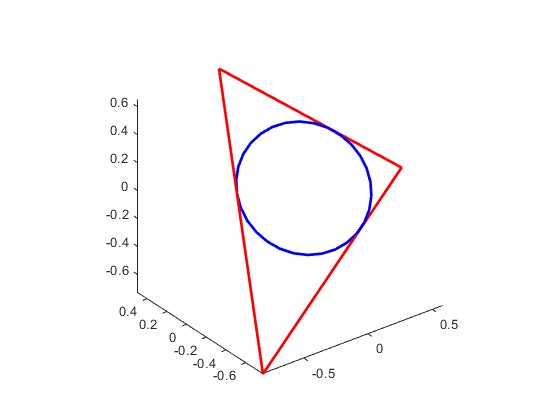
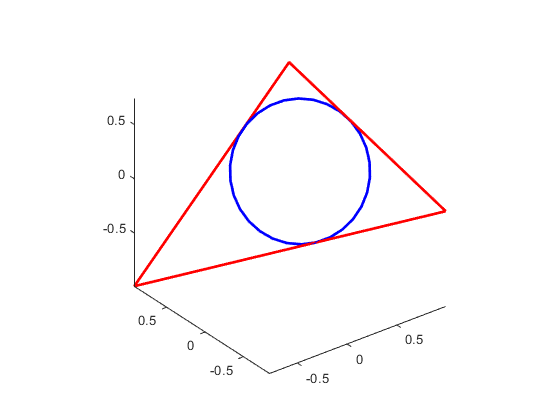
2D cases now included in 3D generic cases

diff --git a/html/doc.html b/html/doc.html
@@ -6,7 +6,7 @@
    <!--
 This HTML was auto-generated from MATLAB code.
 To make changes, update the MATLAB code and republish this document.
-      --><title>triangle_incircle</title><meta name="generator" content="MATLAB 9.7"><link rel="schema.DC" href="http://purl.org/dc/elements/1.1/"><meta name="DC.date" content="2022-10-30"><meta name="DC.source" content="doc.m"><style type="text/css">
+      --><title>triangle_incircle</title><meta name="generator" content="MATLAB 9.7"><link rel="schema.DC" href="http://purl.org/dc/elements/1.1/"><meta name="DC.date" content="2023-08-11"><meta name="DC.source" content="doc.m"><style type="text/css">
 html,body,div,span,applet,object,iframe,h1,h2,h3,h4,h5,h6,p,blockquote,pre,a,abbr,acronym,address,big,cite,code,del,dfn,em,font,img,ins,kbd,q,s,samp,small,strike,strong,sub,sup,tt,var,b,u,i,center,dl,dt,dd,ol,ul,li,fieldset,form,label,legend,table,caption,tbody,tfoot,thead,tr,th,td{margin:0;padding:0;border:0;outline:0;font-size:100%;vertical-align:baseline;background:transparent}body{line-height:1}ol,ul{list-style:none}blockquote,q{quotes:none}blockquote:before,blockquote:after,q:before,q:after{content:'';content:none}:focus{outine:0}ins{text-decoration:none}del{text-decoration:line-through}table{border-collapse:collapse;border-spacing:0}
 
 html { min-height:100%; margin-bottom:1px; }
@@ -66,7 +66,7 @@ table td { padding:7px 5px; text-align:left; vertical-align:top; border:1px soli
 
 
 
-  </style></head><body><div class="content"><h1>triangle_incircle</h1><!--introduction--><p>Function to compute and display the incircle of a triangle.</p><p>Author &amp; support : nicolas.douillet (at) free.fr, 2022.</p><!--/introduction--><h2>Contents</h2><div><ul><li><a href="#1">Syntax</a></li><li><a href="#2">Description</a></li><li><a href="#3">See also</a></li><li><a href="#4">Input arguments</a></li><li><a href="#5">Output arguments</a></li><li><a href="#6">Example #1</a></li><li><a href="#7">Example #2</a></li></ul></div><h2 id="1">Syntax</h2><p>triangle_incircle(A, B, C);</p><p>triangle_incircle(A, B, C, nb_samples);</p><p>triangle_incircle(A, B, C, nb_samples, option_display);</p><p>[R, I, r] = triangle_incircle(A, B, C, nb_samples, option_display);</p><h2 id="2">Description</h2><p>triangle_incircle(A, B, C) computes and displays the incircle of ABC triangle.</p><p>triangle_incircle(A, B, C, nb_samples) uses nb_samples to draw the circle.</p><p>triangle_incircle(A, B, C, nb_samples, option_display) displays the circle when option_display is set either to logical true or real numeric 1, and doesn't when it is set to logical false or real numeric 0.</p><p>[R, I, r] = triangle_incircle(A, B, C, nb_samples, option_display) stores the results in [R, I, r] vector.</p><h2 id="3">See also</h2><p>| <a href="https://fr.mathworks.com/matlabcentral/fileexchange/119788-triangle-circumcircle">triangle circumcircle</a> |   <a href="https://fr.mathworks.com/matlabcentral/fileexchange/65574-tetrahedron-circumscribed-sphere?s_tid=prof_contriblnk">tetrahedron circumsphere</a> |</p><h2 id="4">Input arguments</h2><pre>      [Ax]
+  </style></head><body><div class="content"><h1>triangle_incircle</h1><!--introduction--><p>Function to compute and display the incircle of a triangle.</p><p>Author &amp; support : nicolas.douillet (at) free.fr, 2022-2023.</p><!--/introduction--><h2>Contents</h2><div><ul><li><a href="#1">Syntax</a></li><li><a href="#2">Description</a></li><li><a href="#3">See also</a></li><li><a href="#4">Input arguments</a></li><li><a href="#5">Output arguments</a></li><li><a href="#6">Example #1</a></li></ul></div><h2 id="1">Syntax</h2><p>triangle_incircle(A, B, C);</p><p>triangle_incircle(A, B, C, nb_samples);</p><p>triangle_incircle(A, B, C, nb_samples, option_display);</p><p>[R, I, r] = triangle_incircle(A, B, C, nb_samples, option_display);</p><h2 id="2">Description</h2><p>triangle_incircle(A, B, C) computes and displays the incircle of ABC triangle.</p><p>triangle_incircle(A, B, C, nb_samples) uses nb_samples to draw the circle.</p><p>triangle_incircle(A, B, C, nb_samples, option_display) displays the circle when option_display is set either to logical true or real numeric 1, and doesn't when it is set to logical false or real numeric 0.</p><p>[R, I, r] = triangle_incircle(A, B, C, nb_samples, option_display) stores the results in [R, I, r] vector.</p><h2 id="3">See also</h2><p>| <a href="https://fr.mathworks.com/matlabcentral/fileexchange/119788-triangle-circumcircle">triangle circumcircle</a> |   <a href="https://fr.mathworks.com/help/matlab/ref/triangulation.incenter.html">incenter</a> |   <a href="https://fr.mathworks.com/matlabcentral/fileexchange/65574-tetrahedron-circumscribed-sphere?s_tid=prof_contriblnk">tetrahedron circumsphere</a> |</p><h2 id="4">Input arguments</h2><pre>      [Ax]
 - A = [Ay] : real column vector double. 2 &lt;= numel(A) &lt;= 3. One of the three ABC vertices.
       [Az]</pre><pre>      [Bx]
 - B = [By] real column vector double. 2 &lt;= numel(A) &lt;= 3. One of the three ABC vertices.
@@ -82,17 +82,13 @@ C = 2*(rand(3,1)-0.5);
 nb_samples = 30;
 option_display = true;
 triangle_incircle(A,B,C,nb_samples,option_display);
-</pre><img vspace="5" hspace="5" src="doc_01.png" alt=""> <h2 id="7">Example #2</h2><p>From a triangle of the 2D space</p><pre class="codeinput">A = 2*(rand(2,1)-0.5);
-B = 2*(rand(2,1)-0.5);
-C = 2*(rand(2,1)-0.5);
-[R,I,r] = triangle_incircle(A,B,C);
-</pre><img vspace="5" hspace="5" src="doc_02.png" alt=""> <p class="footer"><br><a href="https://www.mathworks.com/products/matlab/">Published with MATLAB&reg; R2019b</a><br></p></div><!--
+</pre><img vspace="5" hspace="5" src="doc_01.png" alt=""> <p class="footer"><br><a href="https://www.mathworks.com/products/matlab/">Published with MATLAB&reg; R2019b</a><br></p></div><!--
 ##### SOURCE BEGIN #####
 %% triangle_incircle
 %
 % Function to compute and display the incircle of a triangle.
 %
-% Author & support : nicolas.douillet (at) free.fr, 2022.
+% Author & support : nicolas.douillet (at) free.fr, 2022-2023.
 %
 %
 %% Syntax
@@ -125,6 +121,7 @@ C = 2*(rand(2,1)-0.5);
 %% See also
 %
 % | <https://fr.mathworks.com/matlabcentral/fileexchange/119788-triangle-circumcircle triangle circumcircle> |
+%   <https://fr.mathworks.com/help/matlab/ref/triangulation.incenter.html incenter> |
 %   <https://fr.mathworks.com/matlabcentral/fileexchange/65574-tetrahedron-circumscribed-sphere?s_tid=prof_contriblnk tetrahedron circumsphere> |
 %
 %
@@ -169,12 +166,5 @@ C = 2*(rand(3,1)-0.5);
 nb_samples = 30;
 option_display = true;
 triangle_incircle(A,B,C,nb_samples,option_display);
-
-%% Example #2
-% From a triangle of the 2D space
-A = 2*(rand(2,1)-0.5);
-B = 2*(rand(2,1)-0.5);
-C = 2*(rand(2,1)-0.5);
-[R,I,r] = triangle_incircle(A,B,C);
 ##### SOURCE END #####
 --></body></html>

diff --git a/triangle_incircle.m b/triangle_incircle.m
@@ -1,7 +1,7 @@
 function [R, I, r] = triangle_incircle(A, B, C, nb_samples, option_display)
 %% triangle_incircle : function to compute and display the incircle of one given triangle
 %
-% Author & support : nicolas.douillet (at) free.fr, 2022.
+% Author & support : nicolas.douillet (at) free.fr, 2022-2023.
 %
 % Syntax
 %
@@ -18,10 +18,7 @@ function [R, I, r] = triangle_incircle(A, B, C, nb_samples, option_display)
 % logical true or real numeric 1, and doesn't when it is set to logical false or real numeric 0.
 % [R, I, r] = triangle_incircle(A, B, C, nb_samples, option_display) stores the results in [R, I, r] vector.
 %
-% See also
-%
-% | <https://fr.mathworks.com/matlabcentral/fileexchange/119788-triangle-circumcircle triangle circumcircle> |
-% | <https://fr.mathworks.com/matlabcentral/fileexchange/65574-tetrahedron-circumscribed-sphere?s_tid=prof_contriblnk tetrahedron circumsphere> |
+% See also INCENTER CIRCUMCENTER
 %
 % Input arguments
 %
@@ -56,7 +53,7 @@ function [R, I, r] = triangle_incircle(A, B, C, nb_samples, option_display)
 % - r : real scalar double. the incircle radius.
 %
 %
-% Example #1
+% Example
 % From a triangle of the 3D space
 % A = 2*(rand(3,1)-0.5);
 % B = 2*(rand(3,1)-0.5);
@@ -67,9 +64,9 @@ function [R, I, r] = triangle_incircle(A, B, C, nb_samples, option_display)
 %
 % Example #2
 % From a triangle of the 2D space
-% A = 2*(rand(2,1)-0.5);
-% B = 2*(rand(2,1)-0.5);
-% C = 2*(rand(2,1)-0.5);
+% A = cat(1,2*(rand(2,1)-0.5),0);
+% B = cat(1,2*(rand(2,1)-0.5),0);
+% C = cat(1,2*(rand(2,1)-0.5),0);
 % [R,I,r] = triangle_incircle(A,B,C);
 
 
@@ -92,19 +89,10 @@ end
 assert(isequal(size(A),size(B),size(C)),'All inputs points must have the same size.');
 assert(isequal(ndims(A),ndims(B),ndims(C),2),'All inputs points must have the same number of dimensions (2).');
 assert(isreal(A) && isreal(B) && isreal(C),'All inputs points must contain real numbers only.');
-
-dimension = numel(A);
-assert(dimension > 1 && dimension < 4,'Input points must have 2 or 3 elements.');
+assert(numel(A) > 1 && numel(A) < 4,'Input points must have 2 or 3 elements.');
 
 
 %% Body
-if dimension < 3 % one padding in 2D case    
-    
-    A = cat(1,A,1);
-    B = cat(1,B,1);
-    C = cat(1,C,1);
-    
-end
 
 % ABC triangle director and normal vectors computation 
 AB = (B-A)/norm(B-A);
@@ -130,10 +118,13 @@ Cx = r*cos(theta);
 Cy = r*sin(theta);
 Cz = zeros(1,nb_samples);
 
-if dimension > 2
+
+% Vector u to rotate around
+k = [0 0 1]';
+
+
+if norm(cross(k,n)) > 1e3*eps
     
-    % Vector u to rotate around
-    k = [0 0 1]';
     u = cross(k,n)/norm(cross(k,n));
     
     % Angle between k and u
@@ -143,16 +134,12 @@ if dimension > 2
     Rm = @(delta)[u(1,1)^2+cos(delta)*(1-u(1,1)^2) (1-cos(delta))*u(1,1)*u(2,1)-u(3,1)*sin(delta) (1-cos(delta))*u(1,1)*u(3,1)+u(2,1)*sin(delta);
                   (1-cos(delta))*u(1,1)*u(2,1)+u(3,1)*sin(delta) u(2,1)^2+cos(delta)*(1-u(2,1)^2) (1-cos(delta))*u(2,1)*u(3,1)-u(1,1)*sin(delta);
                   (1-cos(delta))*u(1,1)*u(3,1)-u(2,1)*sin(delta) (1-cos(delta))*u(2,1)*u(3,1)+u(1,1)*sin(delta) u(3,1)^2+cos(delta)*(1-u(3,1)^2)];
-                  
+    
     R = (Rm(alpha) * cat(1,Cx,Cy,Cz))' + I;
     
-else % if dimension == 2
+else
     
     R = cat(1,Cx,Cy,Cz)' + I;
-    
-    % one simplifications in 2D case
-    R = R(:,1:2); 
-    I = I(1:2);
     
 end
 
@@ -160,23 +147,13 @@ end
 %% Display
 if option_display
     
-    figure    
+    figure
     
-    if dimension > 2
-        
-        line([A(1,1) B(1,1) C(1,1) A(1,1)],[A(2,1) B(2,1) C(2,1) A(2,1)],[A(3,1) B(3,1) C(3,1) A(3,1)],'Color',[1 0 0],'Linewidth',2), hold on;
-        line([R(:,1); R(1,1)],[R(:,2); R(1,2)],[R(:,3); R(1,3)],'Color',[0 0 1],'Linewidth',2), hold on;    
-        view(3);
+    line([A(1,1) B(1,1) C(1,1) A(1,1)],[A(2,1) B(2,1) C(2,1) A(2,1)],[A(3,1) B(3,1) C(3,1) A(3,1)],'Color',[1 0 0],'Linewidth',2), hold on;
+    line([R(:,1); R(1,1)],[R(:,2); R(1,2)],[R(:,3); R(1,3)],'Color',[0 0 1],'Linewidth',2), hold on;
+    view(3);
     
-    else % if dimension == 2
-        
-        line([A(1,1) B(1,1) C(1,1) A(1,1)],[A(2,1) B(2,1) C(2,1) A(2,1)],'Color',[1 0 0],'Linewidth',2), hold on;
-        line([R(:,1); R(1,1)],[R(:,2); R(1,2)],'Color',[0 0 1],'Linewidth',2), hold on;    
-        view(2);
-        
-    end
-    
-    axis equal, axis tight;    
+    axis equal, axis tight;
     
 end
 
@@ -189,20 +166,6 @@ function [I, rc] = lines_intersection(M1, u1, M2, u2, verbose)
 %
 % Author & support : nicolas.douillet (at) free.fr, 2019-2022.
 
-% Zeros padding in 2D case
-s1 = size(u1);
-catdim = find(s1 == 1);
-cat2dim = setdiff(1:2,catdim);
-
-dimension = numel(u1);
-
-if dimension < 3
-    M1 = cat(cat2dim,M1,0);
-    u1 = cat(cat2dim,u1,0);
-    M2 = cat(cat2dim,M2,0);
-    u2 = cat(cat2dim,u2,0);
-end
-
 
 u1 = u1/norm(u1);
 u2 = u2/norm(u2);
@@ -212,9 +175,9 @@ nM1M2 = diff_pts/norm(diff_pts);
 
 
 % Segment cases
-if norm(v) < eps
+if norm(v) < 1e3*eps
     
-    if ~norm(cross(u1,nM1M2)) && ~norm(cross(u2,nM1M2))
+    if norm(cross(u1,nM1M2)) < 1e3*eps && norm(cross(u2,nM1M2)) < 1e3*eps
         
         I = M1;
         rc = 2;
@@ -238,17 +201,17 @@ else
     
     d = [-v(1) v(2) -v(3)];
     
-    f = find(abs(d) > eps);
+    f = find(abs(d) > 1e3*eps);
     if f; f = f(1,1); end
     
-    d_pts = diff_pts(setdiff(1:dimension,f));
-    dt = det(cat(catdim,d_pts,-u2(setdiff(1:dimension,f))));
-    du = det(cat(catdim,u1(setdiff(1:dimension,f)),d_pts));
+    d_pts = diff_pts(setdiff(1:3,f));
+    dt = det(cat(2,d_pts,-u2(setdiff(1:3,f))));
+    du = det(cat(2,u1(setdiff(1:3,f)),d_pts));
     
     t = dt/d(f);
     u = du/d(f);
-    
-    if abs(M1(f)+u1(f)*t-M2(f)-u2(f)*u) < min(abs(M1(f)+u1(f)*t),abs(M2(f)+u2(f)*u))
+            
+    if abs(M1(f)+u1(f)*t-M2(f)-u2(f)*u) < 1e3*eps(min(abs(M1(f)+u1(f)*t),abs(M2(f)+u2(f)*u)))
         
         I = zeros(size(M1));
         
@@ -282,15 +245,7 @@ function [d2H, H] = point_to_line_distance(P, u, I0)
 
 
 % Body
-% Zeros padding in 2D case
 nb_pts = size(P,1);
-dimension = size(P,2); 
-
-if dimension < 3
-    P = cat(2,P,zeros(size(P,1),1));
-    u = cat(2,u,0);
-    I0 = cat(2,I0,0);    
-end
 
 
 t_H = (u(1)*(P(:,1)-repmat(I0(1),[nb_pts,1])) + ...
@@ -304,7 +259,7 @@ z_H = I0(3) + t_H*u(3);
 
 
 % Orthogonal projected point
-H = zeros(size(P,1),dimension);
+H = zeros(size(P));
 H(:,1) = x_H;
 H(:,2) = y_H;
 H(:,3) = z_H;
@@ -312,7 +267,7 @@ H(:,3) = z_H;
 
 % Distance
 d2H = sqrt(sum((P-H).^2,2));
-H = H(:,1:dimension);
+H = H(:,1:size(P,2));
 
 
 end % point_to_line_distance       

diff --git a/doc.m b/doc.m
@@ -2,7 +2,7 @@
 %
 % Function to compute and display the incircle of a triangle.
 %
-% Author & support : nicolas.douillet (at) free.fr, 2022.
+% Author & support : nicolas.douillet (at) free.fr, 2022-2023.
 %
 %
 %% Syntax
@@ -35,6 +35,7 @@
 %% See also
 %
 % | <https://fr.mathworks.com/matlabcentral/fileexchange/119788-triangle-circumcircle triangle circumcircle> |
+%   <https://fr.mathworks.com/help/matlab/ref/triangulation.incenter.html incenter> |
 %   <https://fr.mathworks.com/matlabcentral/fileexchange/65574-tetrahedron-circumscribed-sphere?s_tid=prof_contriblnk tetrahedron circumsphere> |
 %
 %
@@ -82,7 +83,7 @@ triangle_incircle(A,B,C,nb_samples,option_display);
 
 %% Example #2
 % From a triangle of the 2D space
-A = 2*(rand(2,1)-0.5);
-B = 2*(rand(2,1)-0.5);
-C = 2*(rand(2,1)-0.5);
+A = cat(1,2*(rand(2,1)-0.5),0);
+B = cat(1,2*(rand(2,1)-0.5),0);
+C = cat(1,2*(rand(2,1)-0.5),0);
 [R,I,r] = triangle_incircle(A,B,C);
